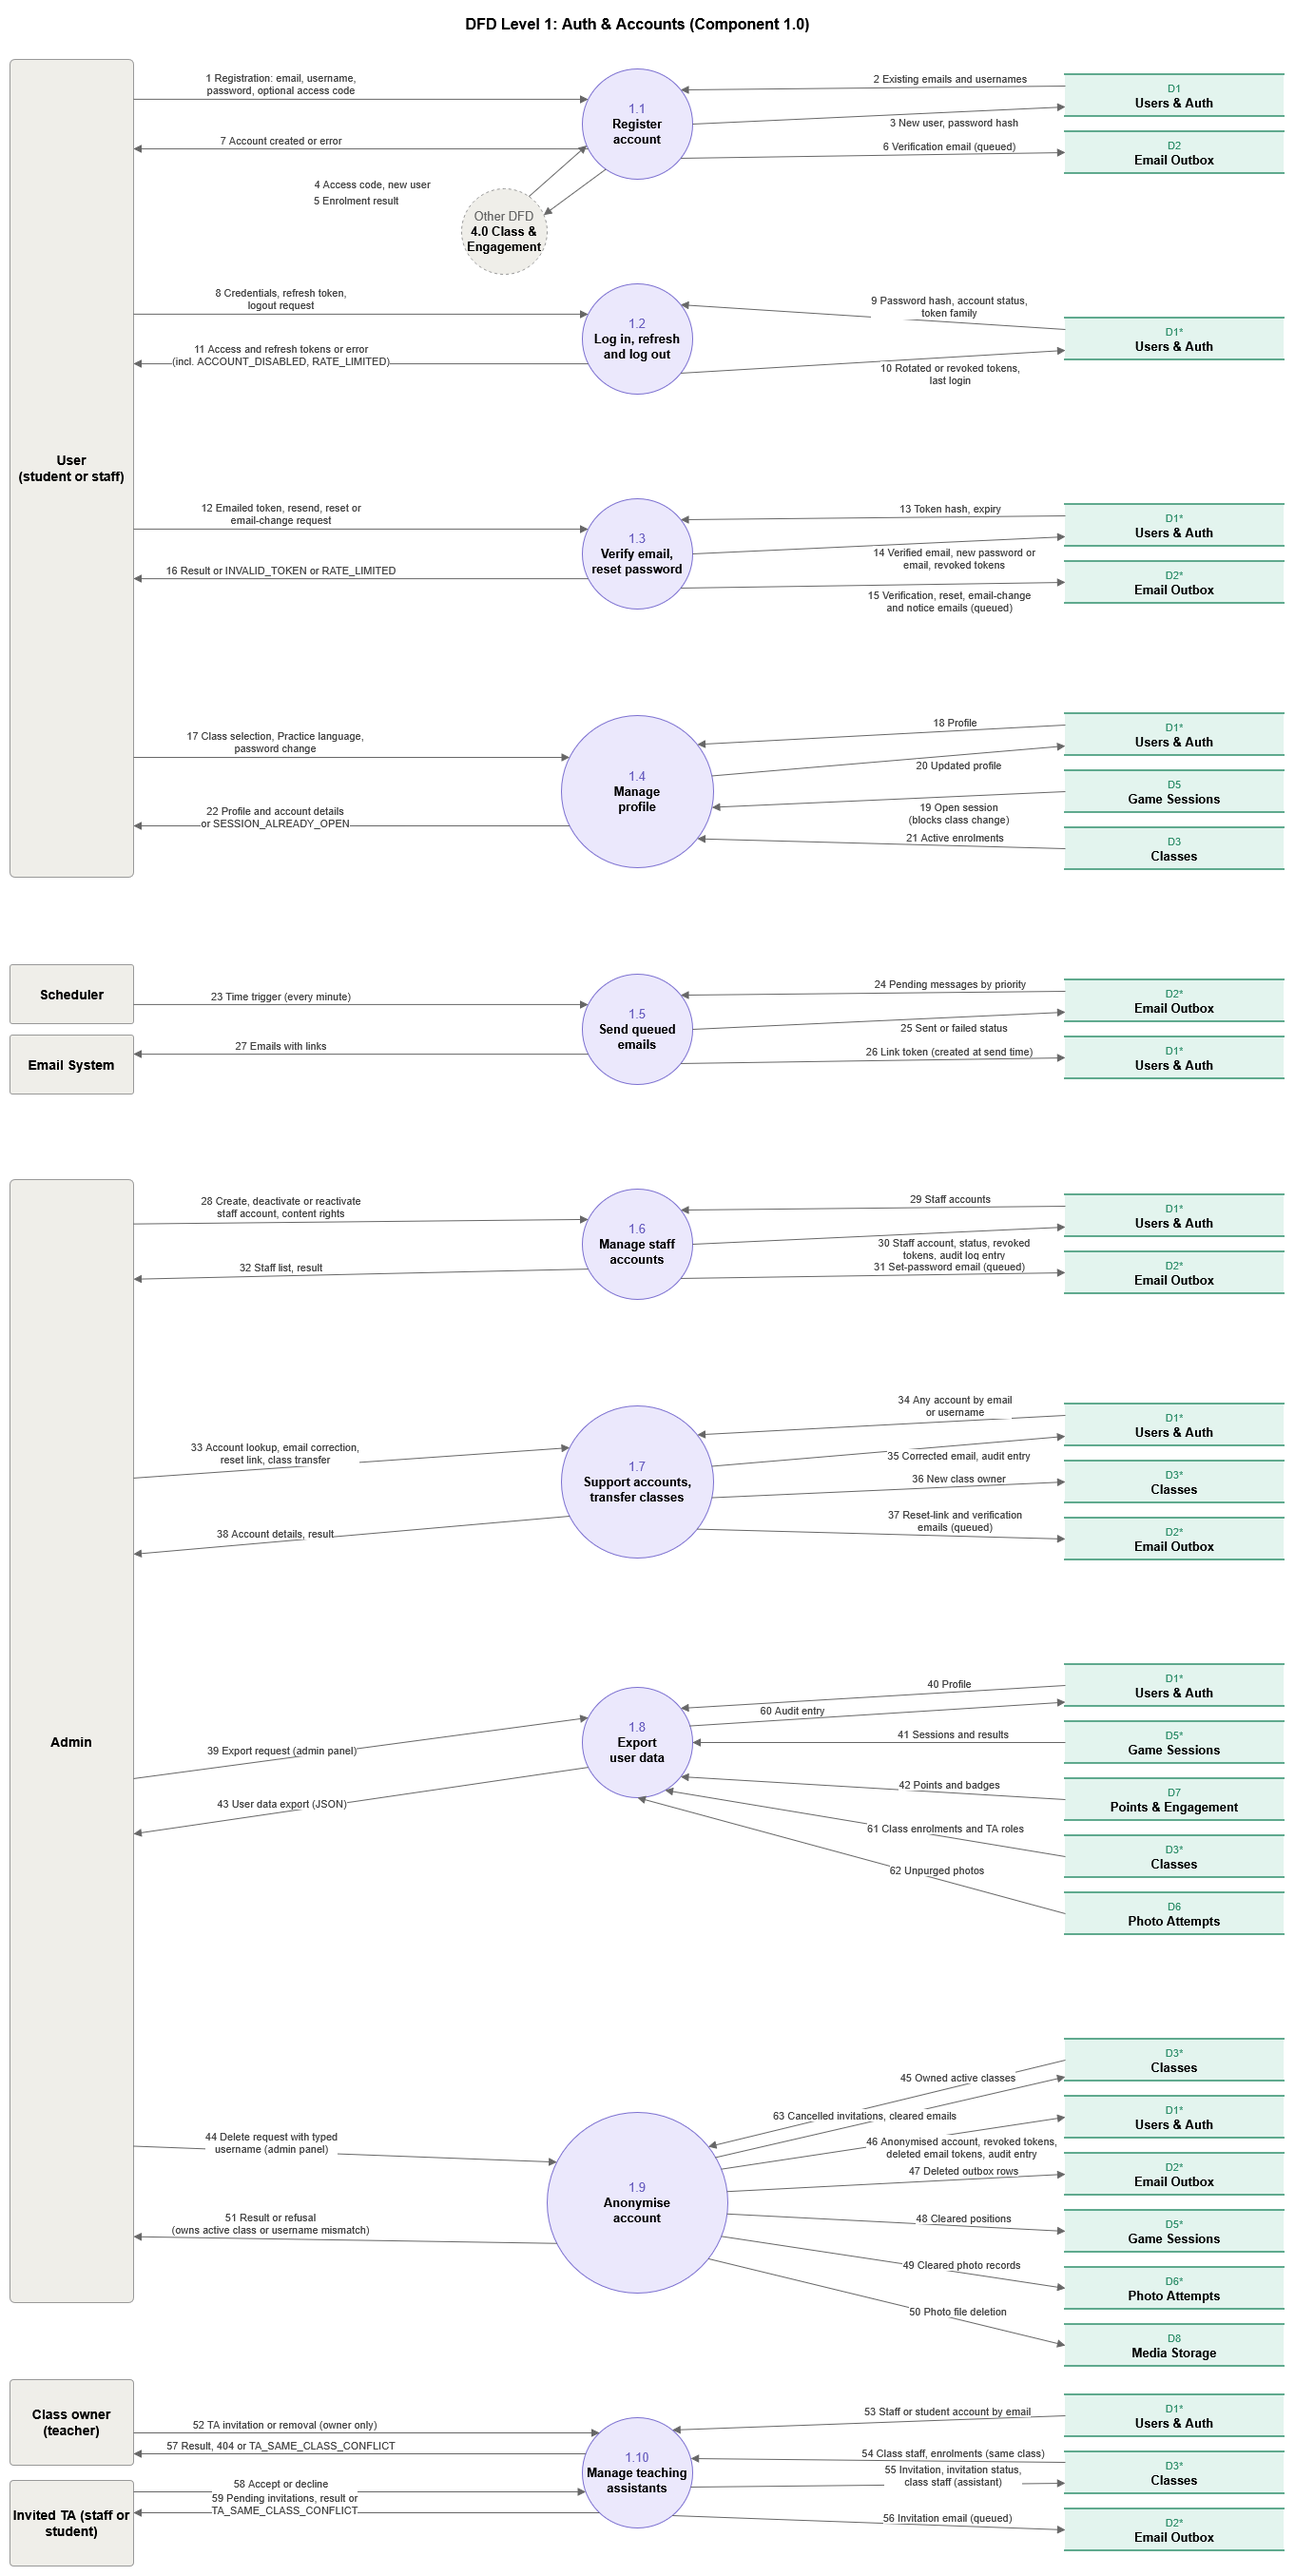
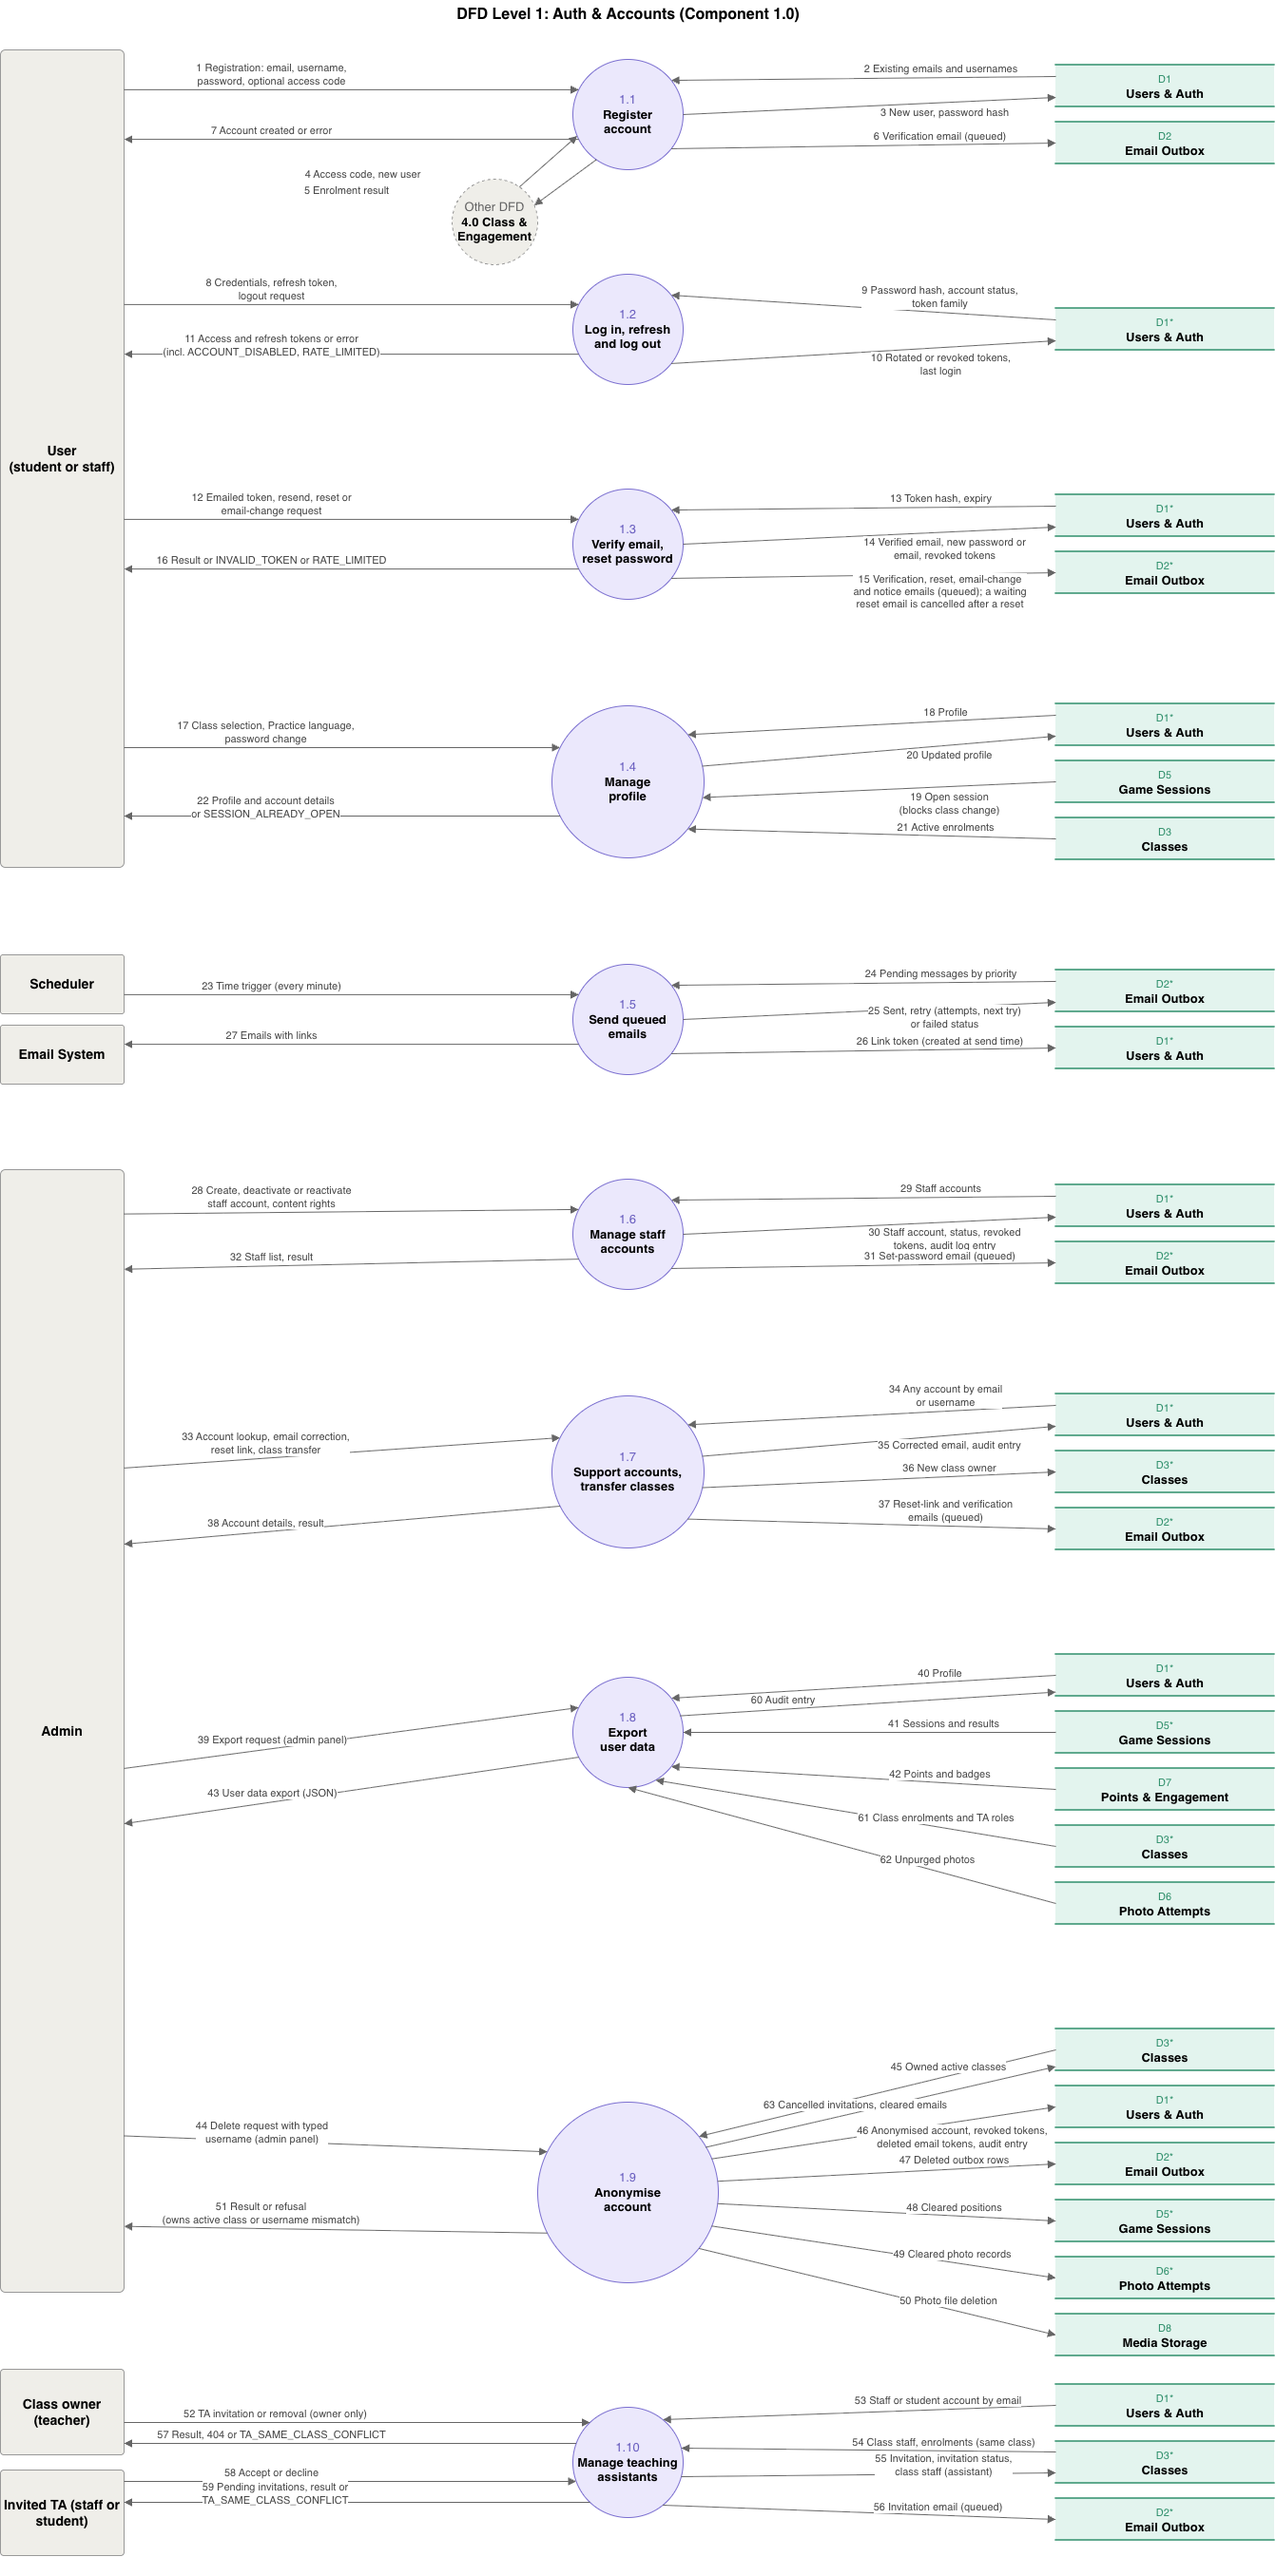
docs: Add week 6 team log (#214)
* Filled out Kaedyn's weekly log

* docs: first draft of week 6 team log

* docs: update week 6 team log with the new graph and shared-code section

* docs: update the auth and game session DFD images for week 6

* docs: add Mia Kuang as co-author for week 6 log

Updated author information to include Mia Kuang.

* Revise week 6 report and update merged PR count

Updated the weekly progress report with corrected the number of merged PRs.

---------

diff --git a/logs/team/week-6.md b/logs/team/week-6.md
@@ -1,0 +1,63 @@
+# Week 6 Team Log (Oct. 12 - Oct. 18)
+
+Author: Kaedyn Hindley / Mia Kuang
+
+This week, we decided to focus on expanding on the shared interfaces and individual components and authorization system, with the goal of beginning work on the core systems that will allow the game to function, while minimizing waiting on each other's work.
+
+The work was distributed so that:
+
+- Mia focused on assisting Kaedyn with the email system for account verification, password reset, and TA invitation (#175, #176, #183, #184, #185, #186), and after finishing that moved on to the foundations of the core game logic, such as starting both a private practice or class game session, and abandoning games in progress (#187, #188, #194). Mia also implemented CI files `utils/export_openapi.py` and `.github/workflows/ci.yml` that build the `docs/api/openapi.json` file and ensure that it is up to date so that changes to the API structure are more easily accessible during PR reviews (#179). At the end of the week she did the same for the dependency graph (#209, see below).
+
+- Eddy focused on the storage service for the system (#177), allowing the system to write and find media files without their media URL revealing a location or answer. In addition, Eddy added locations and clues schemas to the shared models (#189). Eddy also refactored the system so that interfaces always have their db parameter as the last required parameter in all of their signatures (#178).
+
+- Kaedyn focused on turning the functions in the accounts interface into FastAPI dependencies, allowing API endpoints to enforce role-based access (#180, #181), and on the sign-in system utilizing JWT for access tokens and rotating refresh tokens, with the goal of completing the basic authorization system. However, only the dependencies were finished on time.
+
+- Fabiha focused on expanding the engagement component interface with the `EngagementResult` that is used by Eddy and Mia after processing a location's result (#190). Fabiha also worked on the join class endpoint, classroom creation and listing, and access code creation and deletion (#193, #201, #202, #203, #204), though they did not get to merge.
+
+We considered alternative workload distributions such Kaedyn implementing the email system as originally planned, but due to the urgency of finishing the FastAPI dependencies and sign-in system, Mia offered to assist.
+
+Based on the 21 merged PRs, we mostly met this goal because important shared systems for core user interactions were implemented:
+
+- **Accounts**: email system and user authentication dependencies. The goal for user sign-in was not met, however.
+- **Engagement**: shared interface for points/achievement tracking, as well as classroom and access code creation
+- **Content**: Media saving, locating, and schemas for locations and clues
+- **Game**: Creation and abandoning of games, carry over of locations
+
+The team collectively did the following to keep the code base free of repeated logic and tangled dependencies:
+
+- **Role-based auth dependencies (#180, #181):** The old accounts interface functions returned bools or a user, making other components that depended on these need to implement their own handling of outputs. With this approach, routes that use these only need to call them as dependencies, and they will handle themselves by raising errors should a user not be authenticated.
+- **One function for ending games (#194, #188):** Games can end in three ways: a class is archived or a student leaves, a student starts a new game while an old one is idle, and later the expiry job (A8). `abandon_sessions` in `app/game/sessions.py` does the ending for all of them, with the reason passed in (`class_closed` or `expired`). `is_idle` is also the only place that decides what "idle" means, and it has a version that works as a WHERE condition so the expiry job can pick its games in one query. `end_open_sessions` and `start_game` both use them, so the rules cannot drift apart.
+- **Archive status through engagement (#194):** `start_game` needs to know whether a student's enrolment ended because the class was archived. Instead of reading the enrolment table and its `end_reason` itself, game calls `enrolment_ended_by_archive` in the engagement interface, so only engagement knows how enrolments are stored.
+- **One way to send email (#175, #176, #185, #186):** Registration, verify email, forgot password and reset password all call `EmailService.queue_email`, which writes a row to the outbox, and one job sends them (#183, #184). The rule "one pending reset per user" is written once as `ONE_PENDING_RESET_WHERE` in `app/models/email.py`, and both the database index and `EmailService` use it.
+- **Database argument always last (#178):** Every interface function takes `db` after its required arguments, so callers do not have to remember a different order for each component.
+- **API documents generated from the code (#179):** `docs/api/openapi.json` is built by `utils/export_openapi.py`, and CI fails if the committed file does not match the code. Nobody edits the API description by hand, and a route change and its description always arrive in the same PR.
+- **Dependency graph generated and checked (#209):** `docs/architecture/dependency-graph.md` is drawn from the imports by `utils/dep_graph.py --graph`. It was not being redrawn: the committed version still said 16 modules and 2 import edges. We redrew it and made `--check` fail in CI when the file is out of date, so a PR that adds or moves an import has to commit the new graph. The same check also enforces our rules: components only import each other through `interface.py`, there are no cycles, and shared code never imports a component. The new graph has 42 modules and 106 import edges and no rule is broken.
+
+Now, the team can confirm that the code base does not contain any of the following:
+
+- similar logic implemented multiple times
+- many dependencies between modules
+- changes in one component require changes elsewhere
+
+With everyone's newly merged work for this week, the system DFD looks like the updated diagrams below. The specific changes are in the game session and auth diagrams, so that they match the code and the new dependency graph.
+
+- In 2.0 Game Session, flow 2 now also returns whether the student's enrolment was ended by an archive, which is how start-game tells `CLASS_ARCHIVED` apart from `NOT_FOUND` (4.0 answers through `enrolment_ended_by_archive`). Flow 4 reads the student's open session, the locations left unplayed after a quit today and the completed locations, which the draw needs for carry-over. Flow 5 writes the new session and its location snapshots, and an idle open session is expired first. Flow 7 returns the session ID, state, position and the first clue's audio link, or one of `SESSION_ALREADY_OPEN`, `NOT_ENOUGH_CONTENT` and `CLASS_ARCHIVED`.
+- In 1.0 Auth & Accounts, flow 15 now covers the verification, reset, email-change and notice emails that are queued, and a waiting reset email is cancelled after a reset. Flow 25 returns the sent, retry (attempts and next try) or failed status of an email.
+
+The other merged PRs fill in processes and flows that were already drawn. The ER diagram does not change, because the diagram only shows key columns.
+
+We considered alternative data flows:
+
+- **Game reads the enrolment table to find out if a class was archived.** We kept it behind the engagement interface, because game would then depend on how engagement stores enrolments, which breaks the rule that components only talk through `interface.py`.
+- **Only the expiry job ends idle games.** We also expire an idle open session when the student starts a new game, because otherwise the student would get `SESSION_ALREADY_OPEN` for a game they abandoned long ago.
+- **Sending emails inside the request.** We queue them in an outbox and send them from a job, so a slow or failing mail server does not make registration or password reset fail, and a failed email can be retried.
+
+### DFD Level 0
+![DFD Level 0](img/dfd_level0_context.png)
+
+### DFD Level 1
+![1.0 Auth & Accounts](img/dfd_level1_auth_accounts.png)
+![2.0 Game Session](img/dfd_level1_game_session.png)
+![3.0 Photo Verification](img/dfd_level1_photo_verification.png)
+![4.0 Class & Engagement](img/dfd_level1_class_engagement.png)
+![5.0 Content Management](img/dfd_level1_content_management.png)
